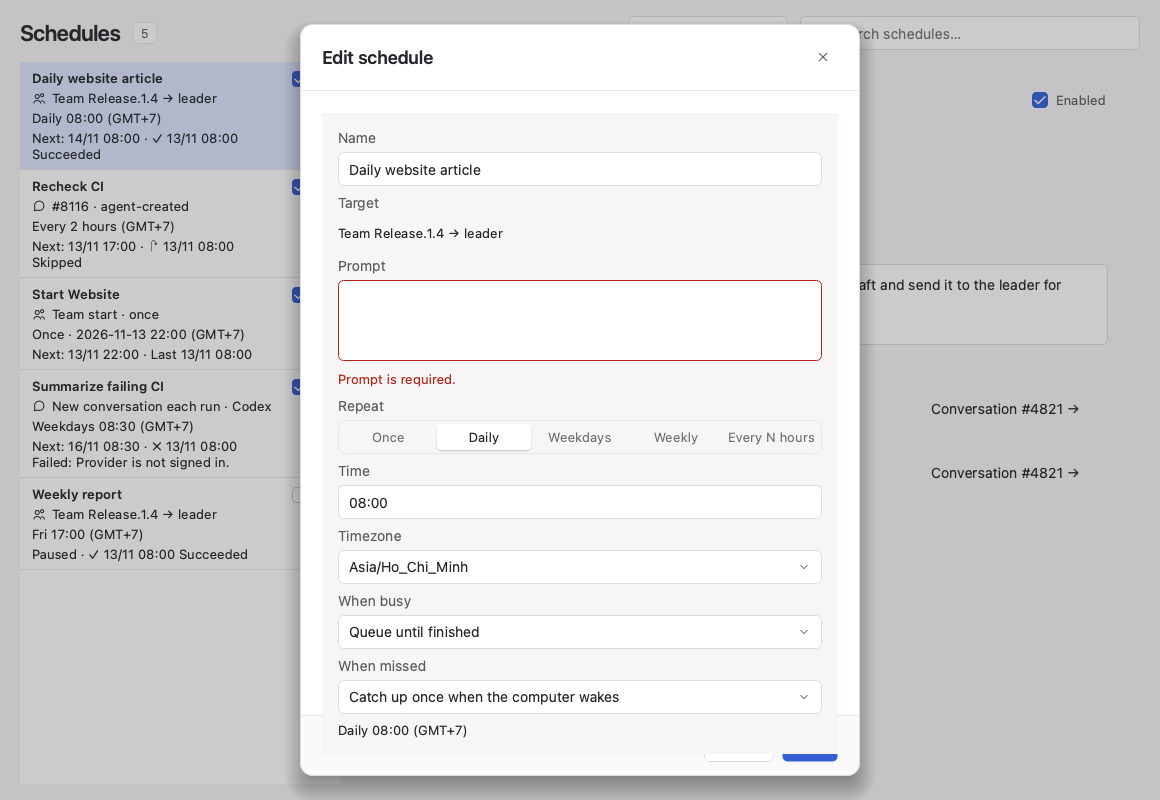
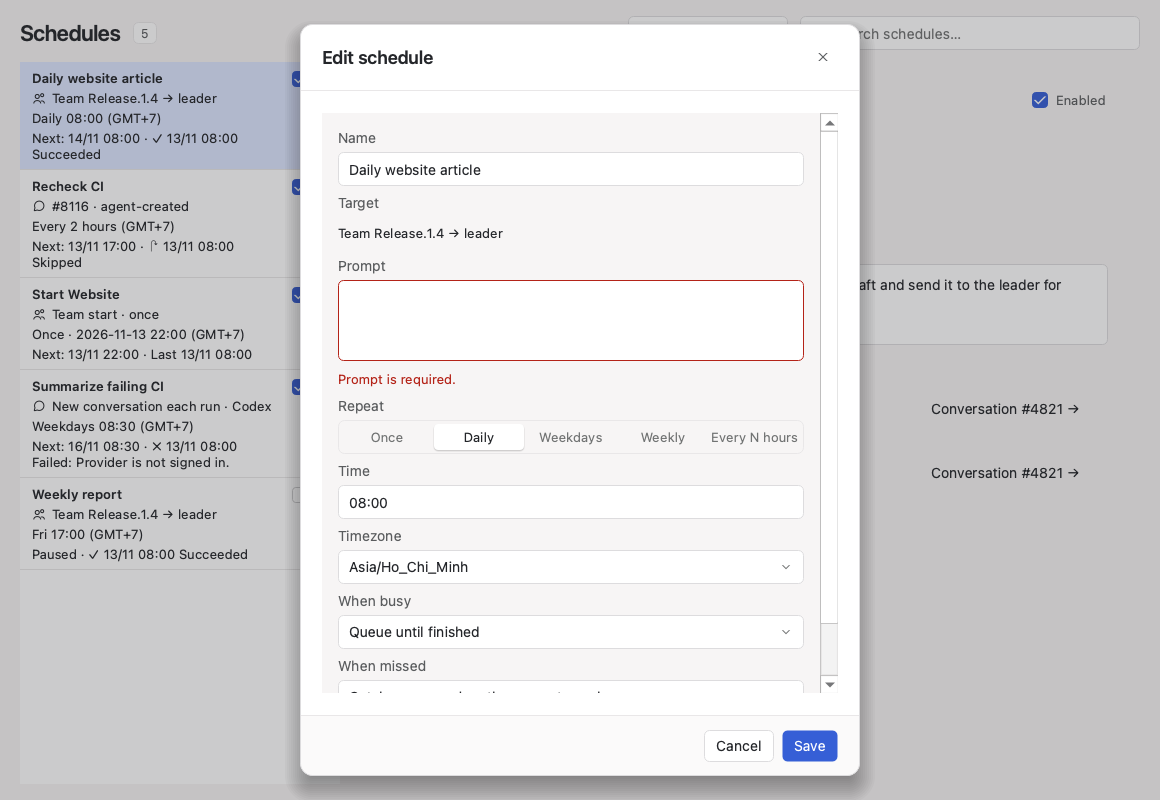
Keep Cancel and Save visible when the schedule editor is taller than the window.
The form still reports its full height so the card grows, and it scrolls above the footer instead of painting over it.

diff --git a/apps/desktop/src/schedules/ScheduleEditor.cpp b/apps/desktop/src/schedules/ScheduleEditor.cpp
@@ -40,6 +40,22 @@ QStringList zoneChoices(const QString& current) {
     return zones;
 }
 
+// Reports the form's height so the card grows, while staying shrinkable so a
+// short window keeps Cancel and Save inside the card and scrolls the form.
+class FormScroll : public QScrollArea {
+  public:
+    using QScrollArea::QScrollArea;
+
+    QSize sizeHint() const override {
+        const QWidget* form = widget();
+        if (form == nullptr)
+            return QScrollArea::sizeHint();
+        return form->sizeHint() + QSize(frameWidth() * 2, frameWidth() * 2);
+    }
+
+    QSize minimumSizeHint() const override { return {0, 0}; }
+};
+
 ket::FieldRow* stackedRow(const QString& label, QWidget* control, QWidget* parent) {
     auto* row = new ket::FieldRow(label, control, {}, parent);
     row->setStacked(true);
@@ -181,16 +197,16 @@ ScheduleEditor::ScheduleEditor(ScheduleClient* client, const QJsonObject& schedu
     summary_->setWordWrap(true);
     column->addWidget(summary_);
 
-    // The card cannot grow past the window. A squeezed column clips the bottom
-    // border of every field, so the form keeps its height and scrolls instead.
+    // The card stops at the window, and a minimum taller than that paints over
+    // the footer. The form keeps its own height and scrolls above Cancel/Save.
     body->adjustSize();
-    const int natural = body->sizeHint().height();
-    body->setMinimumHeight(natural);
-    auto* scroll = new QScrollArea;
+    body->setMinimumHeight(body->sizeHint().height());
+    auto* scroll = new FormScroll;
     scroll->setFrameShape(QFrame::NoFrame);
     scroll->setWidgetResizable(true);
     scroll->setHorizontalScrollBarPolicy(Qt::ScrollBarAlwaysOff);
-    scroll->setMinimumHeight(natural);
+    scroll->setSizePolicy(QSizePolicy::Preferred, QSizePolicy::Expanding);
+    scroll->setMinimumHeight(0);
     scroll->setWidget(body);
     dialog_->setBody(scroll);
     auto* cancel = dialog_->addButton(tr("Cancel"));
@@ -333,8 +349,6 @@ void ScheduleEditor::showIssue(const QString& code, const QString& message, cons
         form->setMinimumHeight(0);
         const int natural = form->sizeHint().height();
         form->setMinimumHeight(natural);
-        if (auto* scroll = qobject_cast<QScrollArea*>(form->parentWidget()->parentWidget()))
-            scroll->setMinimumHeight(natural);
     }
     const bool banner = !message.isEmpty() && resolved.isEmpty();
     banner_->setText(banner ? message : QString{});

diff --git a/docs/evidence/schedules/README.md b/docs/evidence/schedules/README.md
@@ -6,7 +6,8 @@ follow the approved mock in `mockups/qt/evidence/schedules/`. A team id uses the
 alphabet, so the sample reads `Release.1.4` rather than the mock's display name.
 
 The editor target is read-only. An empty prompt is shown under the prompt, with a red
-border. `01-view-menu` shows Schedules… in a View menu, shortcut ⇧⌘J.
+border. The form scrolls above Cancel and Save, and the rule summary stays in the form.
+`01-view-menu` shows Schedules… in a View menu, shortcut ⇧⌘J.
 
 | Files | State |
 | --- | --- |
